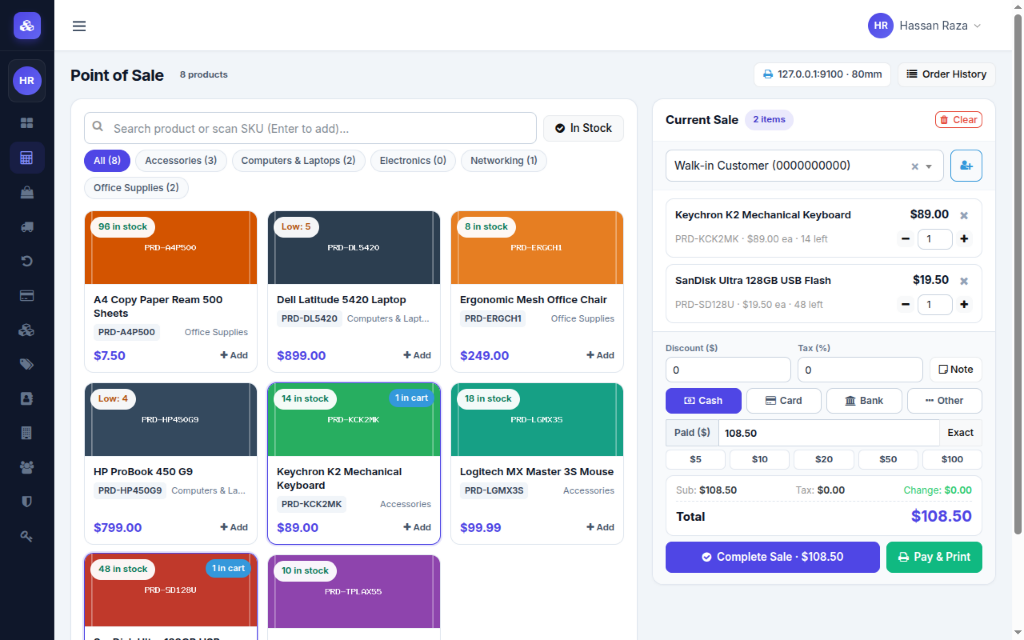
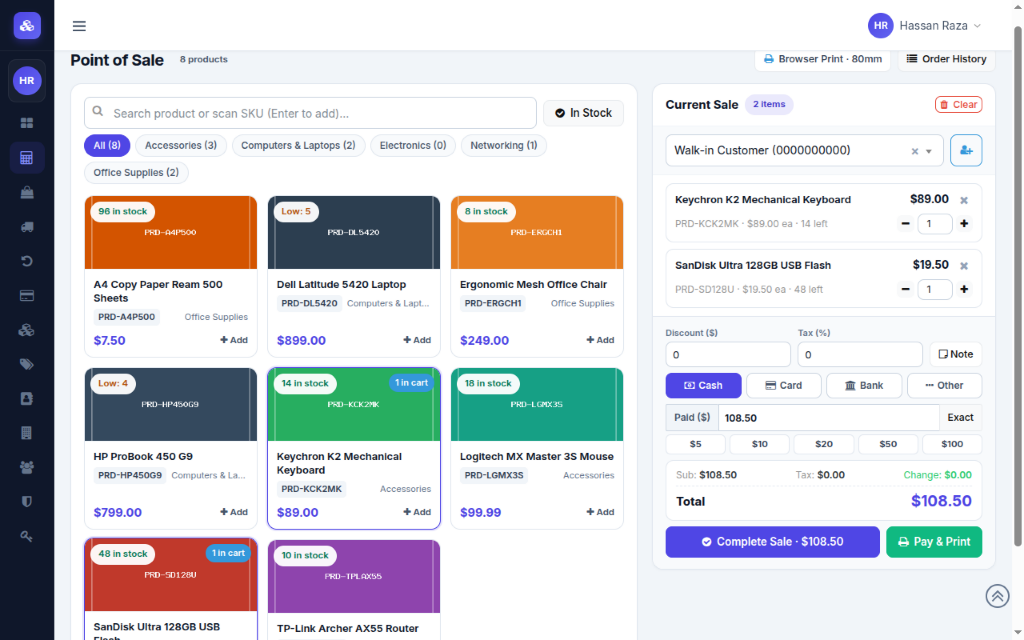
chore: make ESC/POS thermal printing optional behind Browser Print default and remove dev emulator screenshot

diff --git a/public/assets/js/pos.js b/public/assets/js/pos.js
@@ -2,7 +2,7 @@
     'use strict';
 
     const config = window.POS_CONFIG || {};
-    const PRINTER_STORAGE_KEY = 'ims_pos_printer_settings_v2';
+    const PRINTER_STORAGE_KEY = 'ims_pos_printer_settings_v3';
 
     let catalog = Array.isArray(config.products) ? config.products : [];
     const cart = new Map();
@@ -87,7 +87,7 @@
 
         const driver = ['tcp', 'http', 'browser'].includes(saved.driver)
             ? saved.driver
-            : (['tcp', 'http', 'browser'].includes(defaults.driver) ? defaults.driver : 'tcp');
+            : (['tcp', 'http', 'browser'].includes(defaults.driver) ? defaults.driver : 'browser');
 
         return {
             driver: driver,
@@ -98,7 +98,7 @@
             paper_width: Number(saved.paper_width || defaults.paper_width || 80) === 58 ? 58 : 80,
             open_cash_drawer: saved.open_cash_drawer !== undefined
                 ? Boolean(saved.open_cash_drawer)
-                : (defaults.open_cash_drawer !== undefined ? Boolean(defaults.open_cash_drawer) : true),
+                : (defaults.open_cash_drawer !== undefined ? Boolean(defaults.open_cash_drawer) : false),
             autoprint: Boolean(saved.autoprint),
         };
     }
@@ -810,6 +810,11 @@
                     $('#pos-success-change').text('$' + response.order.change_amount);
                     $('#pos-success-receipt-btn').attr('href', response.receipt_url + '?width=' + settings.paper_width);
                     $('#pos-success-view-btn').attr('href', response.show_url);
+                    $('#pos-success-thermal-btn').html(
+                        settings.driver === 'browser'
+                            ? '<i class="fa fa-print mr-1"></i> Print Receipt'
+                            : '<i class="fa fa-bolt mr-1"></i> Thermal Print'
+                    );
 
                     const $successPrintStatus = $('#pos-success-print-status');
                     $successPrintStatus.addClass('d-none').removeClass('alert-success alert-danger alert-info').text('');

diff --git a/resources/views/orders/create.blade.php b/resources/views/orders/create.blade.php
@@ -17,7 +17,13 @@
         <div class="pos-topbar-actions">
             <button type="button" class="btn btn-light border btn-sm pos-printer-pill" id="pos-printer-settings-btn" data-toggle="modal" data-target="#pos-printer-settings-modal">
                 <i class="fa fa-print text-primary mr-1"></i>
-                <span id="pos-printer-summary">Printer: {{ $printerConfig['host'] ?? '127.0.0.1' }}:{{ $printerConfig['port'] ?? 9100 }} · {{ $printerConfig['paper_width'] ?? 80 }}mm</span>
+                <span id="pos-printer-summary">
+                    @if(($printerConfig['driver'] ?? 'browser') === 'browser')
+                        Browser Print · {{ $printerConfig['paper_width'] ?? 80 }}mm
+                    @else
+                        {{ $printerConfig['host'] ?? '127.0.0.1' }}:{{ $printerConfig['port'] ?? 9100 }} · {{ $printerConfig['paper_width'] ?? 80 }}mm
+                    @endif
+                </span>
             </button>
             @can('read order')
                 <a href="{{ route('orders.index') }}" class="btn btn-light border btn-sm">
@@ -223,7 +229,7 @@
         <div class="modal-dialog modal-dialog-centered" role="document">
             <div class="modal-content">
                 <div class="modal-header">
-                    <h5 class="modal-title" id="posPrinterSettingsLabel"><i class="fa fa-print text-primary mr-2"></i>Thermal Receipt Printer</h5>
+                    <h5 class="modal-title" id="posPrinterSettingsLabel"><i class="fa fa-print text-primary mr-2"></i>Receipt Printer Settings</h5>
                     <button type="button" class="close" data-dismiss="modal" aria-label="Close">
                         <span aria-hidden="true">&times;</span>
                     </button>
@@ -234,9 +240,9 @@
                         <div class="form-group">
                             <label for="printer_driver">Print Transport</label>
                             <select id="printer_driver" class="form-control">
-                                <option value="tcp">Raw ESC/POS TCP Socket (Virtual / LAN Printer)</option>
-                                <option value="http">HTTP POST Bridge (Virtual Printer HTTP Endpoint)</option>
-                                <option value="browser">Browser Print Dialog (80mm / 58mm Thermal CSS)</option>
+                                <option value="browser">Browser Print Dialog (Default — 80mm / 58mm Thermal CSS)</option>
+                                <option value="tcp">Raw ESC/POS TCP Socket (Optional — LAN Thermal Printer)</option>
+                                <option value="http">HTTP POST Bridge (Optional — Local Print Server)</option>
                             </select>
                         </div>
                         <div id="pos-printer-network-fields">
@@ -244,7 +250,7 @@
                                 <div class="col-sm-8">
                                     <div class="form-group mb-1">
                                         <label for="printer_host">Printer Host / IP</label>
-                                        <input type="text" id="printer_host" class="form-control" placeholder="127.0.0.1">
+                                        <input type="text" id="printer_host" class="form-control" placeholder="192.168.1.50">
                                     </div>
                                 </div>
                                 <div class="col-sm-4">
@@ -254,7 +260,7 @@
                                     </div>
                                 </div>
                             </div>
-                            <small class="form-text text-muted mb-3">Standard ESC/POS TCP port is 9100 (Virtual Printer Suite UI on :8000 receives ESC/POS jobs on 127.0.0.1:9100).</small>
+                            <small class="form-text text-muted mb-3">Optional: enter your LAN ESC/POS thermal printer IP and port (typically 9100). Restricted to localhost and private LAN IPs.</small>
                             <div class="row d-none" id="pos-printer-http-fields">
                                 <div class="col-sm-6">
                                     <div class="form-group">

diff --git a/resources/views/orders/receipt.blade.php b/resources/views/orders/receipt.blade.php
@@ -23,7 +23,7 @@
             margin: 0;
         }
         .receipt-toolbar {
-            max-width: 460px;
+            max-width: 520px;
             margin: 0 auto 14px;
             font-family: -apple-system, BlinkMacSystemFont, 'Segoe UI', Roboto, sans-serif;
             background: #ffffff;
@@ -155,7 +155,7 @@
                 </div>
             </div>
             <div class="d-flex align-items-center" style="gap: 6px;">
-                <button type="button" class="btn btn-sm btn-success" id="receipt-thermal-print-btn">
+                <button type="button" class="btn btn-sm btn-success {{ ($printerConfig['driver'] ?? 'browser') === 'browser' ? 'd-none' : '' }}" id="receipt-thermal-print-btn">
                     <i class="fa fa-bolt mr-1"></i> Thermal Print
                 </button>
                 <button type="button" class="btn btn-sm btn-primary" onclick="window.print();">
@@ -264,14 +264,19 @@
             const $statusBox = $('#receipt-print-status');
             const $thermalBtn = $('#receipt-thermal-print-btn');
 
-            function loadPrinterSettings() {
-                let saved = {};
+            function getSavedPrinter() {
                 try {
-                    saved = JSON.parse(localStorage.getItem('ims_pos_printer_settings_v2') || '{}');
+                    return JSON.parse(localStorage.getItem('ims_pos_printer_settings_v3') || '{}');
                 } catch (e) {
-                    saved = {};
+                    return {};
                 }
-                const driver = saved.driver === 'http' ? 'http' : (defaultPrinter.driver === 'http' ? 'http' : 'tcp');
+            }
+
+            function loadPrinterSettings() {
+                const saved = getSavedPrinter();
+                const driver = ['tcp', 'http'].includes(saved.driver)
+                    ? saved.driver
+                    : (['tcp', 'http'].includes(defaultPrinter.driver) ? defaultPrinter.driver : 'tcp');
 
                 return {
                     driver: driver,
@@ -284,6 +289,13 @@
                         ? Boolean(saved.open_cash_drawer)
                         : (defaultPrinter.open_cash_drawer !== undefined ? Boolean(defaultPrinter.open_cash_drawer) : false)
                 };
+            }
+
+            const initialDriver = getSavedPrinter().driver || defaultPrinter.driver || 'browser';
+            if (initialDriver === 'tcp' || initialDriver === 'http') {
+                $thermalBtn.removeClass('d-none');
+            } else {
+                $thermalBtn.addClass('d-none');
             }
 
             $thermalBtn.on('click', function () {

diff --git a/resources/views/orders/show.blade.php b/resources/views/orders/show.blade.php
@@ -13,7 +13,7 @@
             </ol>
         </div>
         <div class="d-flex align-items-center flex-wrap" style="gap: 8px;">
-            <button type="button" class="btn btn-success" id="order-thermal-print-btn" data-url="{{ route('orders.printThermal', $order->id) }}">
+            <button type="button" class="btn btn-success {{ config('pos.printer.driver', 'browser') === 'browser' ? 'd-none' : '' }}" id="order-thermal-print-btn" data-url="{{ route('orders.printThermal', $order->id) }}">
                 <i class="fa fa-bolt mr-1"></i> Thermal Print
             </button>
             <a href="{{ route('orders.receipt', $order->id) }}" target="_blank" class="btn btn-primary">
@@ -184,15 +184,22 @@
     <script type="text/javascript">
         (function ($) {
             const defaultPrinter = @json(config('pos.printer'));
-            $('#order-thermal-print-btn').on('click', function () {
+            let savedSettings = {};
+            try {
+                savedSettings = JSON.parse(localStorage.getItem('ims_pos_printer_settings_v3') || '{}');
+            } catch (e) {
+                savedSettings = {};
+            }
+            const activeDriver = savedSettings.driver || defaultPrinter.driver || 'browser';
+            const $thermalBtn = $('#order-thermal-print-btn');
+            if (activeDriver === 'tcp' || activeDriver === 'http') {
+                $thermalBtn.removeClass('d-none');
+            }
+
+            $thermalBtn.on('click', function () {
                 const $btn = $(this);
                 const url = $btn.attr('data-url');
-                let saved = {};
-                try {
-                    saved = JSON.parse(localStorage.getItem('ims_pos_printer_settings_v2') || '{}');
-                } catch (e) {
-                    saved = {};
-                }
+                const saved = savedSettings;
                 const payload = {
                     driver: saved.driver === 'http' ? 'http' : (defaultPrinter.driver === 'http' ? 'http' : 'tcp'),
                     host: saved.host || defaultPrinter.host || '127.0.0.1',

diff --git a/config/pos.php b/config/pos.php
@@ -7,13 +7,13 @@ return [
     'receipt_footer' => env('POS_RECEIPT_FOOTER', 'Thank you for your business!'),
 
     'printer' => [
-        'driver' => env('POS_PRINTER_DRIVER', 'tcp'),
+        'driver' => env('POS_PRINTER_DRIVER', 'browser'),
         'host' => env('POS_PRINTER_HOST', '127.0.0.1'),
         'port' => (int) env('POS_PRINTER_PORT', 9100),
         'http_path' => env('POS_PRINTER_HTTP_PATH', '/'),
         'http_format' => env('POS_PRINTER_HTTP_FORMAT', 'escpos'),
         'paper_width' => (int) env('POS_PRINTER_WIDTH', 80),
-        'open_cash_drawer' => filter_var(env('POS_OPEN_CASH_DRAWER', true), FILTER_VALIDATE_BOOLEAN),
+        'open_cash_drawer' => filter_var(env('POS_OPEN_CASH_DRAWER', false), FILTER_VALIDATE_BOOLEAN),
         'timeout' => (int) env('POS_PRINTER_TIMEOUT', 3),
     ],
 ];

diff --git a/tests/Feature/ThermalPrintTest.php b/tests/Feature/ThermalPrintTest.php
@@ -207,11 +207,15 @@ class ThermalPrintTest extends TestCase
             ->get(route('orders.receipt', ['order' => $orderId, 'width' => 80]))
             ->assertStatus(200)
             ->assertSee('Sales Receipt (80mm)')
-            ->assertSee('Thermal Print');
+            ->assertSee('Browser Print')
+            ->assertSee('btn-success d-none" id="receipt-thermal-print-btn"', false);
+
+        config()->set('pos.printer.driver', 'tcp');
 
         $this->actingAs($cashier)
             ->get(route('orders.receipt', ['order' => $orderId, 'width' => 58]))
             ->assertStatus(200)
-            ->assertSee('Sales Receipt (58mm)');
+            ->assertSee('Sales Receipt (58mm)')
+            ->assertDontSee('btn-success d-none" id="receipt-thermal-print-btn"', false);
     }
 }

diff --git a/app/Services/ThermalReceiptService.php b/app/Services/ThermalReceiptService.php
@@ -280,7 +280,7 @@ class ThermalReceiptService
             'paper_width' => $paperWidth === 58 ? 58 : 80,
             'open_cash_drawer' => array_key_exists('open_cash_drawer', $options)
                 ? (bool) $options['open_cash_drawer']
-                : (bool) ($defaults['open_cash_drawer'] ?? true),
+                : (bool) ($defaults['open_cash_drawer'] ?? false),
             'timeout' => max(1, min(15, (int) ($options['timeout'] ?? $defaults['timeout'] ?? 3))),
         ];
     }

diff --git a/README.md b/README.md
@@ -6,7 +6,7 @@
 [![Code Style: Laravel Pint](https://img.shields.io/badge/Code%20Style-Laravel%20Pint-FF2D20?logo=laravel&logoColor=white)](https://laravel.com/docs/pint)
 [![License: MIT](https://img.shields.io/badge/License-MIT-10b981.svg)](LICENSE)
 
-An open-source Inventory Management System and Point of Sale (POS) web application built on **Laravel 13**, **Spatie Laravel Permission**, **MySQL / SQLite**, a clean modern UI with flat single-click navigation, and direct **ESC/POS thermal receipt printing + cash drawer control**.
+An open-source Inventory Management System and Point of Sale (POS) web application built on **Laravel 13**, **Spatie Laravel Permission**, **MySQL / SQLite**, a clean modern UI with flat single-click navigation, `80mm`/`58mm` receipt printing, and optional LAN ESC/POS thermal printer integration.
 
 ---
 
@@ -17,9 +17,6 @@ An open-source Inventory Management System and Point of Sale (POS) web applicati
 
 ### Modern POS Terminal & Sticky Checkout Rail
 ![POS Terminal with Live Product Grid and Checkout Rail](docs/screenshots/pos-terminal.png)
-
-### Live ESC/POS Thermal Receipt & Cash Drawer Output (Virtual Printer Suite)
-![Live Thermal Receipt and Cash Drawer Output on Port 9100](docs/screenshots/thermal-printer-output.png)
 
 ### Standalone 80mm / 58mm Thermal Receipt Preview
 ![Standalone 80mm and 58mm Thermal Receipt Preview](docs/screenshots/receipt-preview.png)
@@ -42,11 +39,10 @@ An open-source Inventory Management System and Point of Sale (POS) web applicati
   - Responsive product catalog grid with category filter pills & item counts, **In Stock** toggle, live name/SKU search, and Enter-to-add barcode/SKU scanning.
   - Sticky `430px` checkout rail with compact 2-row card cart items, quantity steppers, discount (`$`), percentage tax (`%`), collapsible counter note, payment method pills (`Cash`, `Card`, `Bank`, `Other`), quick `$5 / $10 / $20 / $50 / $100` tender chips, live change-due calculation, and paired **Complete Sale** + **Pay & Print** actions.
   - Inline Quick-Add Customer modal without losing the active cart.
-  - Atomic database checkout with row-level locking (`lockForUpdate`), standalone printable receipts (`/orders/{id}/receipt`), order cancellation with stock restoration, and soft-delete safeguards.
-- **Thermal Receipt Printing & Hardware Support**
-  - Configurable POS Printer Settings modal (`127.0.0.1:9100 · 80mm` default) with persisted preferences, `80mm` (`48` cols) / `58mm` (`32` cols) layouts, and one-click **Send Test Print**.
-  - Supports **Raw ESC/POS TCP Sockets** (compatible with LAN thermal printers and [Virtual Printer Suite](http://localhost:8000)), **HTTP POST Bridge** (`escpos` raw bytes or plain text), and **Browser Print Dialog** (`80mm`/`58mm` `@page` thermal CSS).
-  - Optional **ESC/POS Cash Drawer Pin 2 kick** (`ESC p 0 25 250` / `\x1B\x70\x00\x19\xFA`) triggered on Cash sales.
+  - Atomic database checkout with row-level locking (`lockForUpdate`), standalone printable `80mm`/`58mm` receipts (`/orders/{id}/receipt`), order cancellation with stock restoration, and soft-delete safeguards.
+- **Receipt Printing & Optional ESC/POS Hardware Support**
+  - Built-in **Browser Print** (`80mm` / `58mm` `@page` thermal CSS) enabled by default with zero external hardware or software dependencies.
+  - **Optional** direct **Raw ESC/POS TCP Socket** (typically port `9100` for LAN receipt printers), **HTTP POST Bridge**, and opt-in **ESC/POS Cash Drawer Pin 2 kick** (`ESC p 0 25 250`) configurable via `.env` or POS **Receipt Printer Settings**.
 - **Inventory, Purchasing, Contacts & Operations**
   - **Categories** and **Products** CRUD with parent/child hierarchy, unique SKUs, stock tracking, and Cropper.js image uploads.
   - **Purchases** CRUD linked to **Suppliers** with transactional stock updates and delete protection when purchases exist.
@@ -57,26 +53,22 @@ An open-source Inventory Management System and Point of Sale (POS) web applicati
 
 ---
 
-## Thermal Receipt Printing & Hardware Setup
+## Receipt Printing & Optional ESC/POS Hardware Configuration
 
-POS thermal printing is managed by `App\Services\ThermalReceiptService` and configured in [config/pos.php](config/pos.php):
+By default, IMS-POS uses **Browser Print (`browser`)**, so production deployments work out of the box without any printer daemon or LAN hardware. Direct ESC/POS socket/HTTP printing (`App\Services\ThermalReceiptService`, configured in [config/pos.php](config/pos.php)) is strictly **optional** for counters equipped with LAN thermal printers:
 
 | Environment Variable | Default | Description |
 | --- | --- | --- |
-| `POS_STORE_NAME` | `"${APP_NAME}"` | Store title printed at the top of ESC/POS and browser receipts |
-| `POS_PRINTER_DRIVER` | `tcp` | Default transport: `tcp` (raw ESC/POS socket) or `http` (POST bridge) |
-| `POS_PRINTER_HOST` | `127.0.0.1` | Target thermal printer IP / localhost |
-| `POS_PRINTER_PORT` | `9100` | ESC/POS TCP socket port (`9100` standard; matches Virtual Printer Suite while its UI runs on `:8000`) |
+| `POS_STORE_NAME` | `"${APP_NAME}"` | Store title printed at the top of receipts |
+| `POS_PRINTER_DRIVER` | `browser` | `browser` (default, no hardware required), `tcp` (optional LAN ESC/POS), or `http` (optional bridge) |
+| `POS_PRINTER_HOST` | `127.0.0.1` | Optional LAN thermal printer IP / localhost when `tcp` or `http` is enabled |
+| `POS_PRINTER_PORT` | `9100` | Optional ESC/POS TCP socket port (standard `9100`) |
 | `POS_PRINTER_WIDTH` | `80` | Thermal paper roll width in mm: `80` (`48` columns) or `58` (`32` columns) |
-| `POS_OPEN_CASH_DRAWER` | `true` | Append ESC/POS Pin 2 solenoid pulse (`1B 70 00 19 FA`) on Cash sales |
+| `POS_OPEN_CASH_DRAWER` | `false` | Optional ESC/POS Pin 2 solenoid pulse (`1B 70 00 19 FA`) on Cash sales when using `tcp`/`http` |
 
-### Testing with a Virtual Thermal Printer
+> **Local Development Testing Note:** If you test raw ESC/POS payloads locally during development using an external virtual printer emulator or simulator, keep it strictly in your local dev/test environment — it is a separate testing tool, is **not bundled with IMS-POS**, and must **not** be deployed to production. Keep `POS_PRINTER_DRIVER=browser` for standard production builds unless connecting to a real LAN thermal printer.
 
-1. Start your virtual thermal printer (for example **Virtual Printer Suite** serving its web UI on `http://localhost:8000` and listening for raw ESC/POS jobs on `127.0.0.1:9100`).
-2. Open `/orders/create`, click the printer status pill (`127.0.0.1:9100 · 80mm`) in the POS topbar, verify the transport/host/port/width settings, and click **Send Test Print**.
-3. Use **Pay & Print** at checkout or **Thermal Print** on any order or receipt page to emit ESC/POS receipts and trigger the cash drawer pulse on Cash transactions.
-
-> **SSRF Security:** `ThermalReceiptService::isAllowedPrinterHost()` permits only loopback hosts (`127.0.0.1`, `localhost`, `::1`), the configured `POS_PRINTER_HOST`, and private RFC1918 LAN IPv4 subnets (`10.0.0.0/8`, `172.16.0.0/12`, `192.168.0.0/16`). Public IPs, link-local metadata ranges (`169.254.0.0/16`), and arbitrary domains are rejected with HTTP `422`.
+> **SSRF Security:** When optional `tcp` or `http` printing is enabled, `ThermalReceiptService::isAllowedPrinterHost()` permits only loopback hosts (`127.0.0.1`, `localhost`, `::1`), the configured `POS_PRINTER_HOST`, and private RFC1918 LAN IPv4 subnets (`10.0.0.0/8`, `172.16.0.0/12`, `192.168.0.0/16`). Public IPs, link-local metadata ranges (`169.254.0.0/16`), and arbitrary domains are rejected with HTTP `422`.
 
 ---
 
@@ -85,7 +77,7 @@ POS thermal printing is managed by `App\Services\ThermalReceiptService` and conf
 | Module | Controllers / Services | Key Routes |
 | --- | --- | --- |
 | **Dashboard & Profile** | `HomeController`, `ProfileController` | `/`, `/profile` |
-| **POS, Orders & Thermal Print** | `OrderController`, `ThermalReceiptService` | `/orders`, `/orders/create`, `/orders/{order}/receipt`, `/orders/{order}/print-thermal`, `/orders/pos/printer/test` |
+| **POS, Orders & Receipts** | `OrderController`, `ThermalReceiptService` | `/orders`, `/orders/create`, `/orders/{order}/receipt`, `/orders/{order}/print-thermal`, `/orders/pos/printer/test` |
 | **Catalog & Inventory** | `CategoryController`, `ProductController` | `/categories`, `/products` |
 | **Purchasing & Contacts** | `PurchaseController`, `SupplierController`, `CustomerController` | `/purchases`, `/suppliers`, `/customers` |
 | **Operations & Adjustments** | `ExpenseController`, `SaleReturnController` | `/expenses`, `/returns` |
@@ -129,7 +121,7 @@ POS thermal printing is managed by `App\Services\ThermalReceiptService` and conf
    cp .env.example .env
    php artisan key:generate
    ```
-   Update `DB_*` credentials in `.env` for your local MySQL database (or switch `DB_CONNECTION=sqlite`), and adjust `POS_*` settings if your thermal printer uses a non-default port or paper width.
+   Update `DB_*` credentials in `.env` for your local MySQL database (or switch `DB_CONNECTION=sqlite`). Leave `POS_PRINTER_DRIVER=browser` for standard browser receipt printing, or optionally configure `tcp`/`http` if connecting a physical LAN ESC/POS printer.
 
 4. **Create storage symlink & migrate + seed database**
    ```bash
@@ -142,7 +134,7 @@ POS thermal printing is managed by `App\Services\ThermalReceiptService` and conf
    ```bash
    php artisan serve
    ```
-   Open [http://127.0.0.1:8000](http://127.0.0.1:8000) (or `--port=8001` if running Virtual Printer Suite on `:8000`).
+   Open [http://127.0.0.1:8000](http://127.0.0.1:8000) in your browser.
 
 ---
 

diff --git a/CHANGELOG.md b/CHANGELOG.md
@@ -7,13 +7,13 @@ All notable changes to this project are documented in this file.
 ### Milestone 5 — POS UX Polish, ESC/POS Thermal Printing & Community Readiness
 - Flattened sidebar navigation (`Sidebar.php`, `sidebar.blade.php`) into single-click groups (`MAIN`, `SALES & OPERATIONS`, `INVENTORY`, `CONTACTS`, `ADMINISTRATION`) with `POS Terminal` pinned near top, refined mini-rail alignment, and hid duplicate header POS CTA on `/orders/create`.
 - Redesigned `/orders/create` POS workspace (`pos.js`, `modern-theme.css`) with a compact `430px` sticky checkout rail, `In Stock` filter toggle, 2-row card cart items, `$5 / $10 / $20 / $50 / $100` quick cash chips, payment method pills, aligned tender controls, and side-by-side `Complete Sale` + `Pay & Print` actions.
-- Added `ThermalReceiptService`, `config/pos.php`, and `/orders/pos/printer/test` + `/orders/{order}/print-thermal` endpoints supporting:
-  - Raw ESC/POS TCP socket printing (`127.0.0.1:9100` default, compatible with LAN thermal printers and Virtual Printer Suite)
+- Added `ThermalReceiptService`, `config/pos.php`, and `/orders/pos/printer/test` + `/orders/{order}/print-thermal` endpoints with **Browser Print** (`80mm`/`58mm`) as the production default and optional hardware integrations:
+  - Raw ESC/POS TCP socket printing (standard port `9100`, for optional LAN thermal printers)
   - Optional ESC/POS Pin 2 cash drawer solenoid pulse (`ESC p 0 25 250`) on Cash sales
-  - HTTP POST bridge (`escpos` raw bytes or plain text) and standalone `80mm` / `58mm` browser thermal receipt print preview (`/orders/{order}/receipt`)
+  - Optional HTTP POST bridge (`escpos` raw bytes or plain text) alongside standalone `80mm` / `58mm` browser receipt preview (`/orders/{order}/receipt`)
   - SSRF host allowlist restricting network targets to localhost and RFC1918 private IPs (`isAllowedPrinterHost`)
 - Added `ThermalReceiptServiceTest` and `ThermalPrintTest`, expanding automated PHPUnit coverage to 52 tests.
-- Added `CODE_OF_CONDUCT.md`, MIT metadata in `package.json`, `composer.json` keywords, README architecture/thermal-printer docs, and UI screenshots in `docs/screenshots/`.
+- Added `CODE_OF_CONDUCT.md`, MIT metadata in `package.json`, `composer.json` keywords, README architecture/printing docs, and 5 UI screenshots in `docs/screenshots/`.
 
 ### Milestone 4 — Open-Source Readiness
 - Added `LICENSE` (MIT), updated `composer.json` metadata/scripts, clean `.env.example`, and `.gitignore`.

diff --git a/CONTRIBUTING.md b/CONTRIBUTING.md
@@ -55,7 +55,7 @@ All pull requests run automated CI checks on GitHub Actions. Please verify local
 - Ensure migrations work cleanly on both **MySQL 8+** and **SQLite** (keep schema column additions and `->change()` alterations in separate `Schema::table` blocks).
 - Keep UI changes clean, accessible, and free of console/network errors.
 - Enforce Spatie permissions (`HasMiddleware` + `@can`) on new endpoints and UI actions.
-- When changing receipt formatting or ESC/POS payloads (`App\Services\ThermalReceiptService`), run unit/feature print tests (`composer test`) and verify locally against an `80mm`/`58mm` virtual printer (`127.0.0.1:9100`) or receipt preview (`/orders/{id}/receipt`).
+- When changing receipt formatting or optional ESC/POS payloads (`App\Services\ThermalReceiptService`), run unit/feature print tests (`composer test`) and verify `/orders/{id}/receipt` (`80mm`/`58mm` browser preview). Any external virtual printer emulator is strictly for local development/testing only and must remain optional (`POS_PRINTER_DRIVER=browser` default for production).
 
 ## Submitting a Pull Request
 
